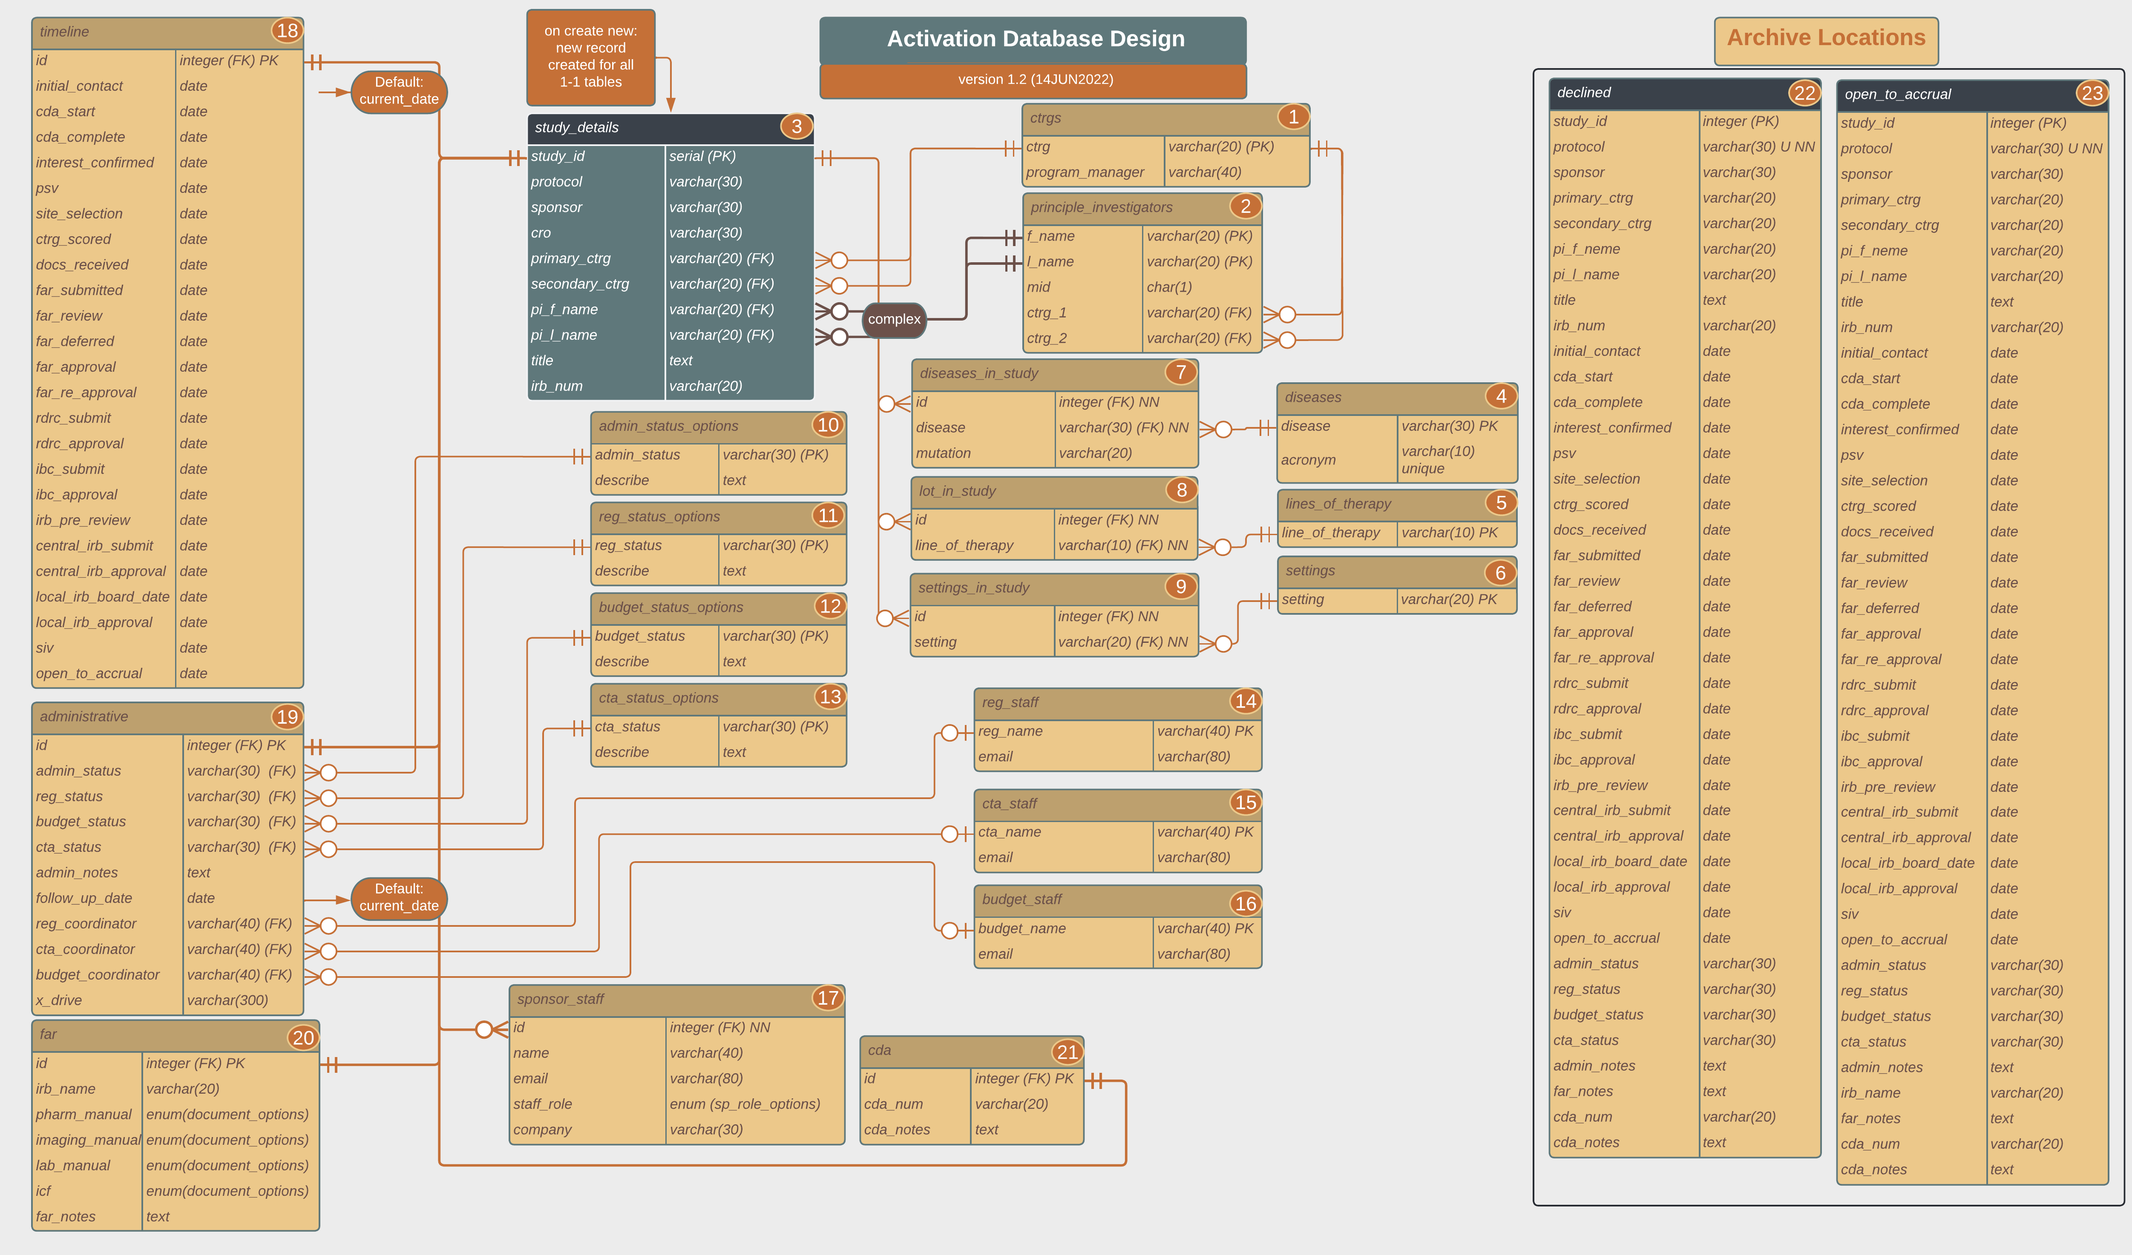
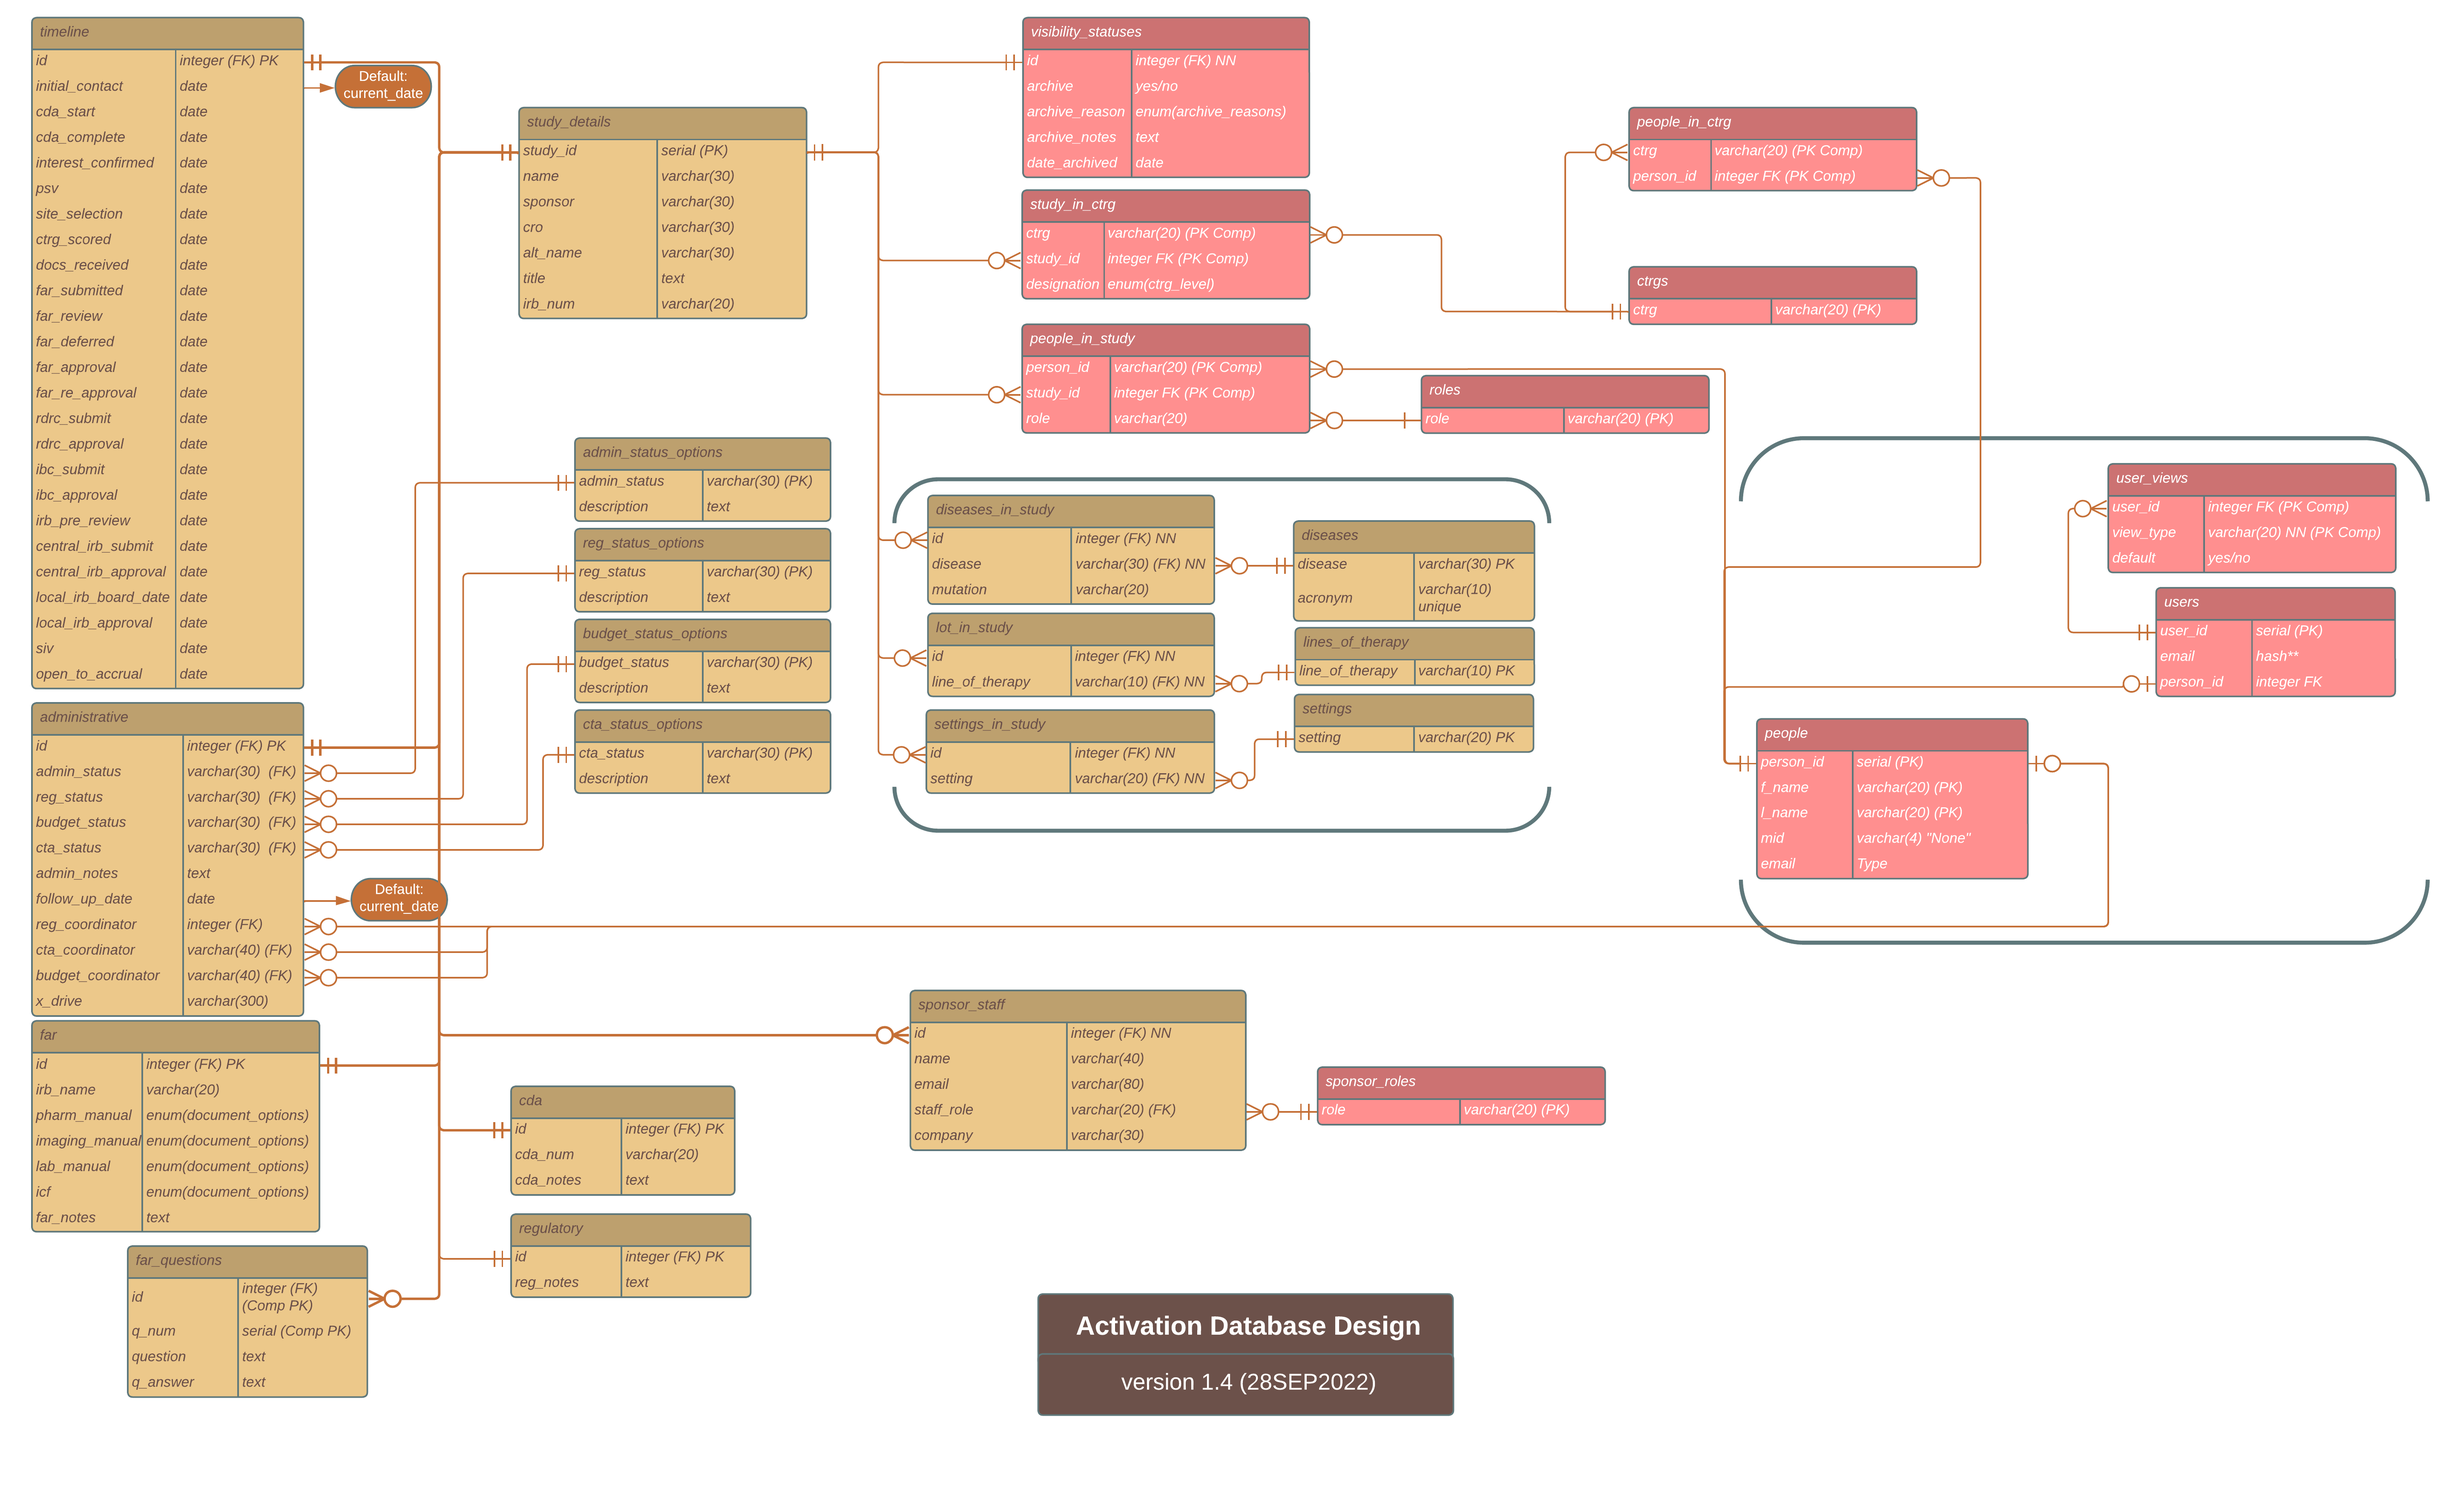
Update projects page video layout & HCI project 1
Ensured responsiveness from the video elements on page. Added content
and image to the project 1 on the HCI projects section.

diff --git a/src/Resume_Website/templates/projects.html b/src/Resume_Website/templates/projects.html
@@ -39,8 +39,8 @@
             <p>The application uses the DAO model for working with databases augmented through the room framework which is different from my other experiences using this model. Lastly, this application allowed me additional experience using the Java programming language.</p>
             
             <h3>Quick Video Demo:</h3>
-            <div class="video-container">
-                <video controls height="450px" >
+            <div id="video-container-1">
+                <video controls width="100%">
                     <source src="{% static 'assets/Sequence 01.mp4' %}">
                 </video>
             </div>
@@ -60,8 +60,8 @@
             <p>The most interesting challenge for me with this project was learning and navigating time zone conversions. The database stores the appointments in UTC and appointments are converted, coming and going, into the appropriate time zone given the user's computer time zone.</p>
             <p>This project allowed me to get experience building a DAO model project without a framework's assistance. Additionally, the project uses Object Oriented programming concepts and fully available JavaDocs.</p>
             <h3>Quick Video Demo:</h3>
-            <div class="video-container">
-                <video controls height="450px" >
+            <div id="video-container-2">
+                <video controls width="100%">
                     <source src="{% static 'assets/AppointmentAppVid.mp4' %}">
                 </video>
             </div>
@@ -72,6 +72,18 @@
             <h1 id="title-tag">In Process: HCI Project</h1>
             <ol id="section-4-list">
                 <li>HCI Activation Database Restructuring</li>
+                <h3>Description:</h3>
+                <p>This is a database restructuring and migration. We currently use MS Access for our database with multiple front-end views for our internal teams to access information regarding their studies. But, with plans to expand the way that we distribute information to external sources we must migrate to a database with a client-server architecture.</p>
+                <p>My next learning experience with this subproject will be organizational. I'll need to work with our IT department for an adequate solution to where to host the database (via a managed cloud solution or locally on our institutional servers).</p>
+                
+                <h3>Tech Stack:</h3>
+                <p>SQL, MS Access, & PostgreSQL</p>
+
+                <h3>Progress:</h3>
+                <p>Underway, near completion.</p>
+
+                <i><h3>New DB Diagram</h3></i>
+                <img src="{% static 'assets/Activation DB Diagram.png' %}" alt="Database Diagram" width="95%">
                 <li>Public Facing Submission Portal</li>
                 <li>Public Facing Project Insights</li>
                 <li>Internal Facing Project Insights</li>              

diff --git a/src/Resume_Website/static/styles/projects.css b/src/Resume_Website/static/styles/projects.css
@@ -55,11 +55,21 @@
     height: 80%;
 }
 
-.video-container {
-    border-radius: 15px;
+#video-container-1 {
+    border-radius: 10px;
     overflow: hidden;
-    width: fit-content;
+    width: 90%;
+    max-width: 300px;
     margin: auto;
+}
+
+#video-container-2 {
+    border-radius: 10px;
+    overflow: hidden;
+    width: 90%;
+    max-width: 700px;
+    margin: auto;
+    padding: 0px;
 }
 
 #chart-wrapper {
